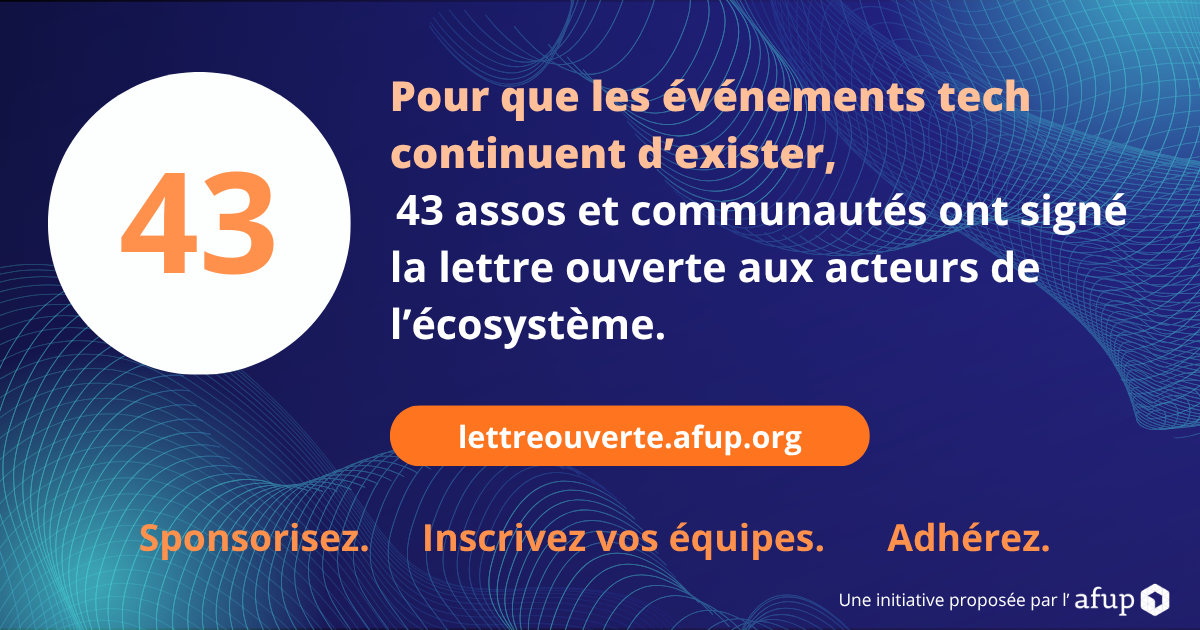
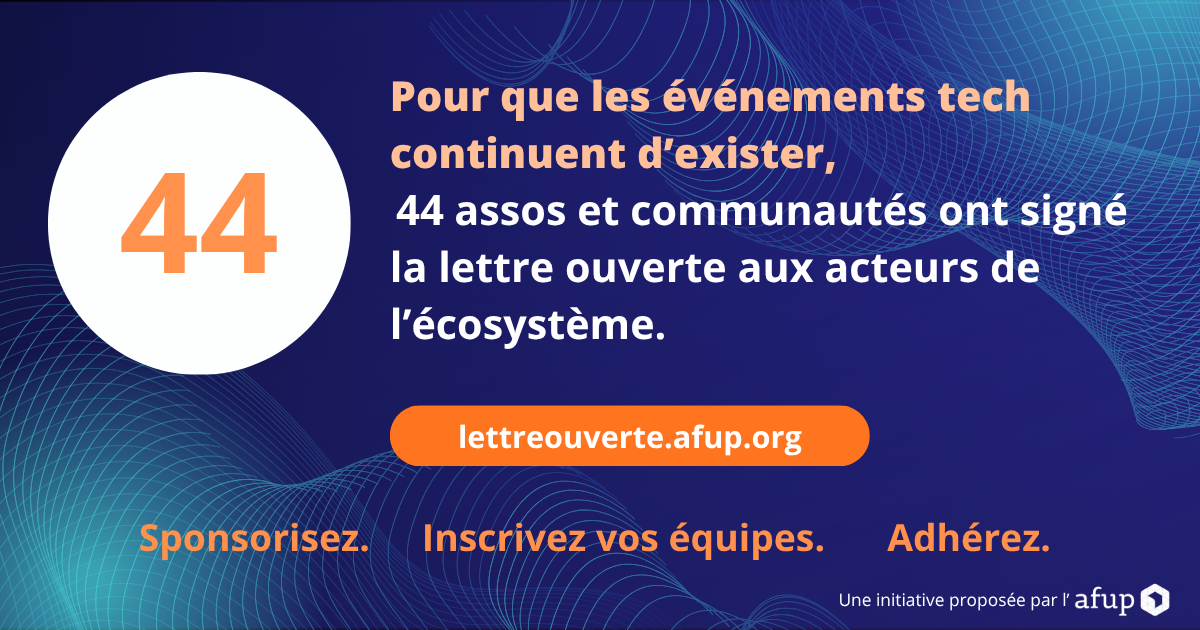
Ajoute Friends of Presta
Claude-Session: https://claude.ai/code/session_0115hX6EEfWp7rYRibe5WUPT

Changed region(s): [[0.1542, 0.2714, 0.2467, 0.4524], [0.3392, 0.3016, 0.37, 0.3619]]

diff --git a/index.html b/index.html
@@ -406,7 +406,7 @@ p a:not(.logo):hover,.footer__nav a:hover{color:var(--orange-hover);border-botto
   <div class="rule signatories__head">
     <div>
       <span class="eyebrow">Signataires</span>
-      <h2 id="signataires-titre"><span class="signatories__count">43</span> organisations ont déjà signé</h2>
+      <h2 id="signataires-titre"><span class="signatories__count">44</span> organisations ont déjà signé</h2>
     </div>
     <p class="signatories__invite">Votre organisation veut apparaître ici&nbsp;? Écrivez-nous à <a href="mailto:lettreouverte@afup.org">lettreouverte@afup.org</a>.</p>
   </div>
@@ -432,6 +432,7 @@ p a:not(.logo):hover,.footer__nav a:hover{color:var(--orange-hover);border-botto
     <li class="sig"><a class="sig__inner" href="https://www.devquest.fr/" target="_blank" rel="noopener"><span class="sig__mark"><span class="sig__logo"><img src="assets/logos/devquest.svg" alt="Logo de DevQuest" loading="lazy" decoding="async"></span></span><span class="sig__name">DevQuest</span></a></li>
     <li class="sig"><a class="sig__inner" href="https://www.drupal.fr/" target="_blank" rel="noopener"><span class="sig__mark"><span class="sig__logo"><img src="assets/logos/drupal-france.png" alt="Logo de Drupal France" loading="lazy" decoding="async"></span></span><span class="sig__name">Drupal France</span></a></li>
     <li class="sig"><a class="sig__inner" href="https://fepsem.org/" target="_blank" rel="noopener"><span class="sig__mark"><span class="sig__logo"><img src="assets/logos/fepsem.png" alt="Logo de FePSeM" loading="lazy" decoding="async"><span class="sig__new" title="Nouveau signataire"><span>new</span></span></span></span><span class="sig__name">FePSeM</span></a></li>
+    <li class="sig"><a class="sig__inner" href="https://friendsofpresta.org/" target="_blank" rel="noopener"><span class="sig__mark"><span class="sig__logo"><img src="assets/logos/friends-of-presta.png" alt="Logo de Friends of Presta" loading="lazy" decoding="async"><span class="sig__new" title="Nouveau signataire"><span>new</span></span></span></span><span class="sig__name">Friends of Presta</span></a></li>
     <li class="sig"><a class="sig__inner" href="https://www.hacoeur.fr/" target="_blank" rel="noopener"><span class="sig__mark"><span class="sig__logo"><img src="assets/logos/hacoeur.png" alt="Logo de Hacoeur - Humain au coeur" loading="lazy" decoding="async"><span class="sig__new" title="Nouveau signataire"><span>new</span></span></span></span><span class="sig__name">Hacoeur - Humain au coeur</span></a></li>
     <li class="sig"><a class="sig__inner" href="https://humantalks.com/" target="_blank" rel="noopener"><span class="sig__mark"><span class="sig__logo"><img src="assets/logos/humantalks.png" alt="Logo de Human Talks" loading="lazy" decoding="async"><span class="sig__new" title="Nouveau signataire"><span>new</span></span></span></span><span class="sig__name">Human Talks</span></a></li>
     <li class="sig"><a class="sig__inner" href="https://keikenchiba.org/" target="_blank" rel="noopener"><span class="sig__mark"><span class="sig__logo"><img src="assets/logos/keikenchiba.png" alt="Logo de Keikenchiba" loading="lazy" decoding="async"><span class="sig__new" title="Nouveau signataire"><span>new</span></span></span></span><span class="sig__name">Keikenchiba</span></a></li>
@@ -731,6 +732,9 @@ p a:not(.logo):hover,.footer__nav a:hover{color:var(--orange-hover);border-botto
         },
         {
           "@id": "https://lettreouverte.afup.org/#org-okiwi"
+        },
+        {
+          "@id": "https://lettreouverte.afup.org/#org-friends-of-presta"
         }
       ],
       "articleSection": [
@@ -1094,6 +1098,13 @@ p a:not(.logo):hover,.footer__nav a:hover{color:var(--orange-hover);border-botto
       "name": "Okiwi",
       "url": "https://okiwi.org/",
       "logo": "https://lettreouverte.afup.org/assets/logos/okiwi.png"
+    },
+    {
+      "@type": "Organization",
+      "@id": "https://lettreouverte.afup.org/#org-friends-of-presta",
+      "name": "Friends of Presta",
+      "url": "https://friendsofpresta.org/",
+      "logo": "https://lettreouverte.afup.org/assets/logos/friends-of-presta.png"
     }
   ]
 }</script>
